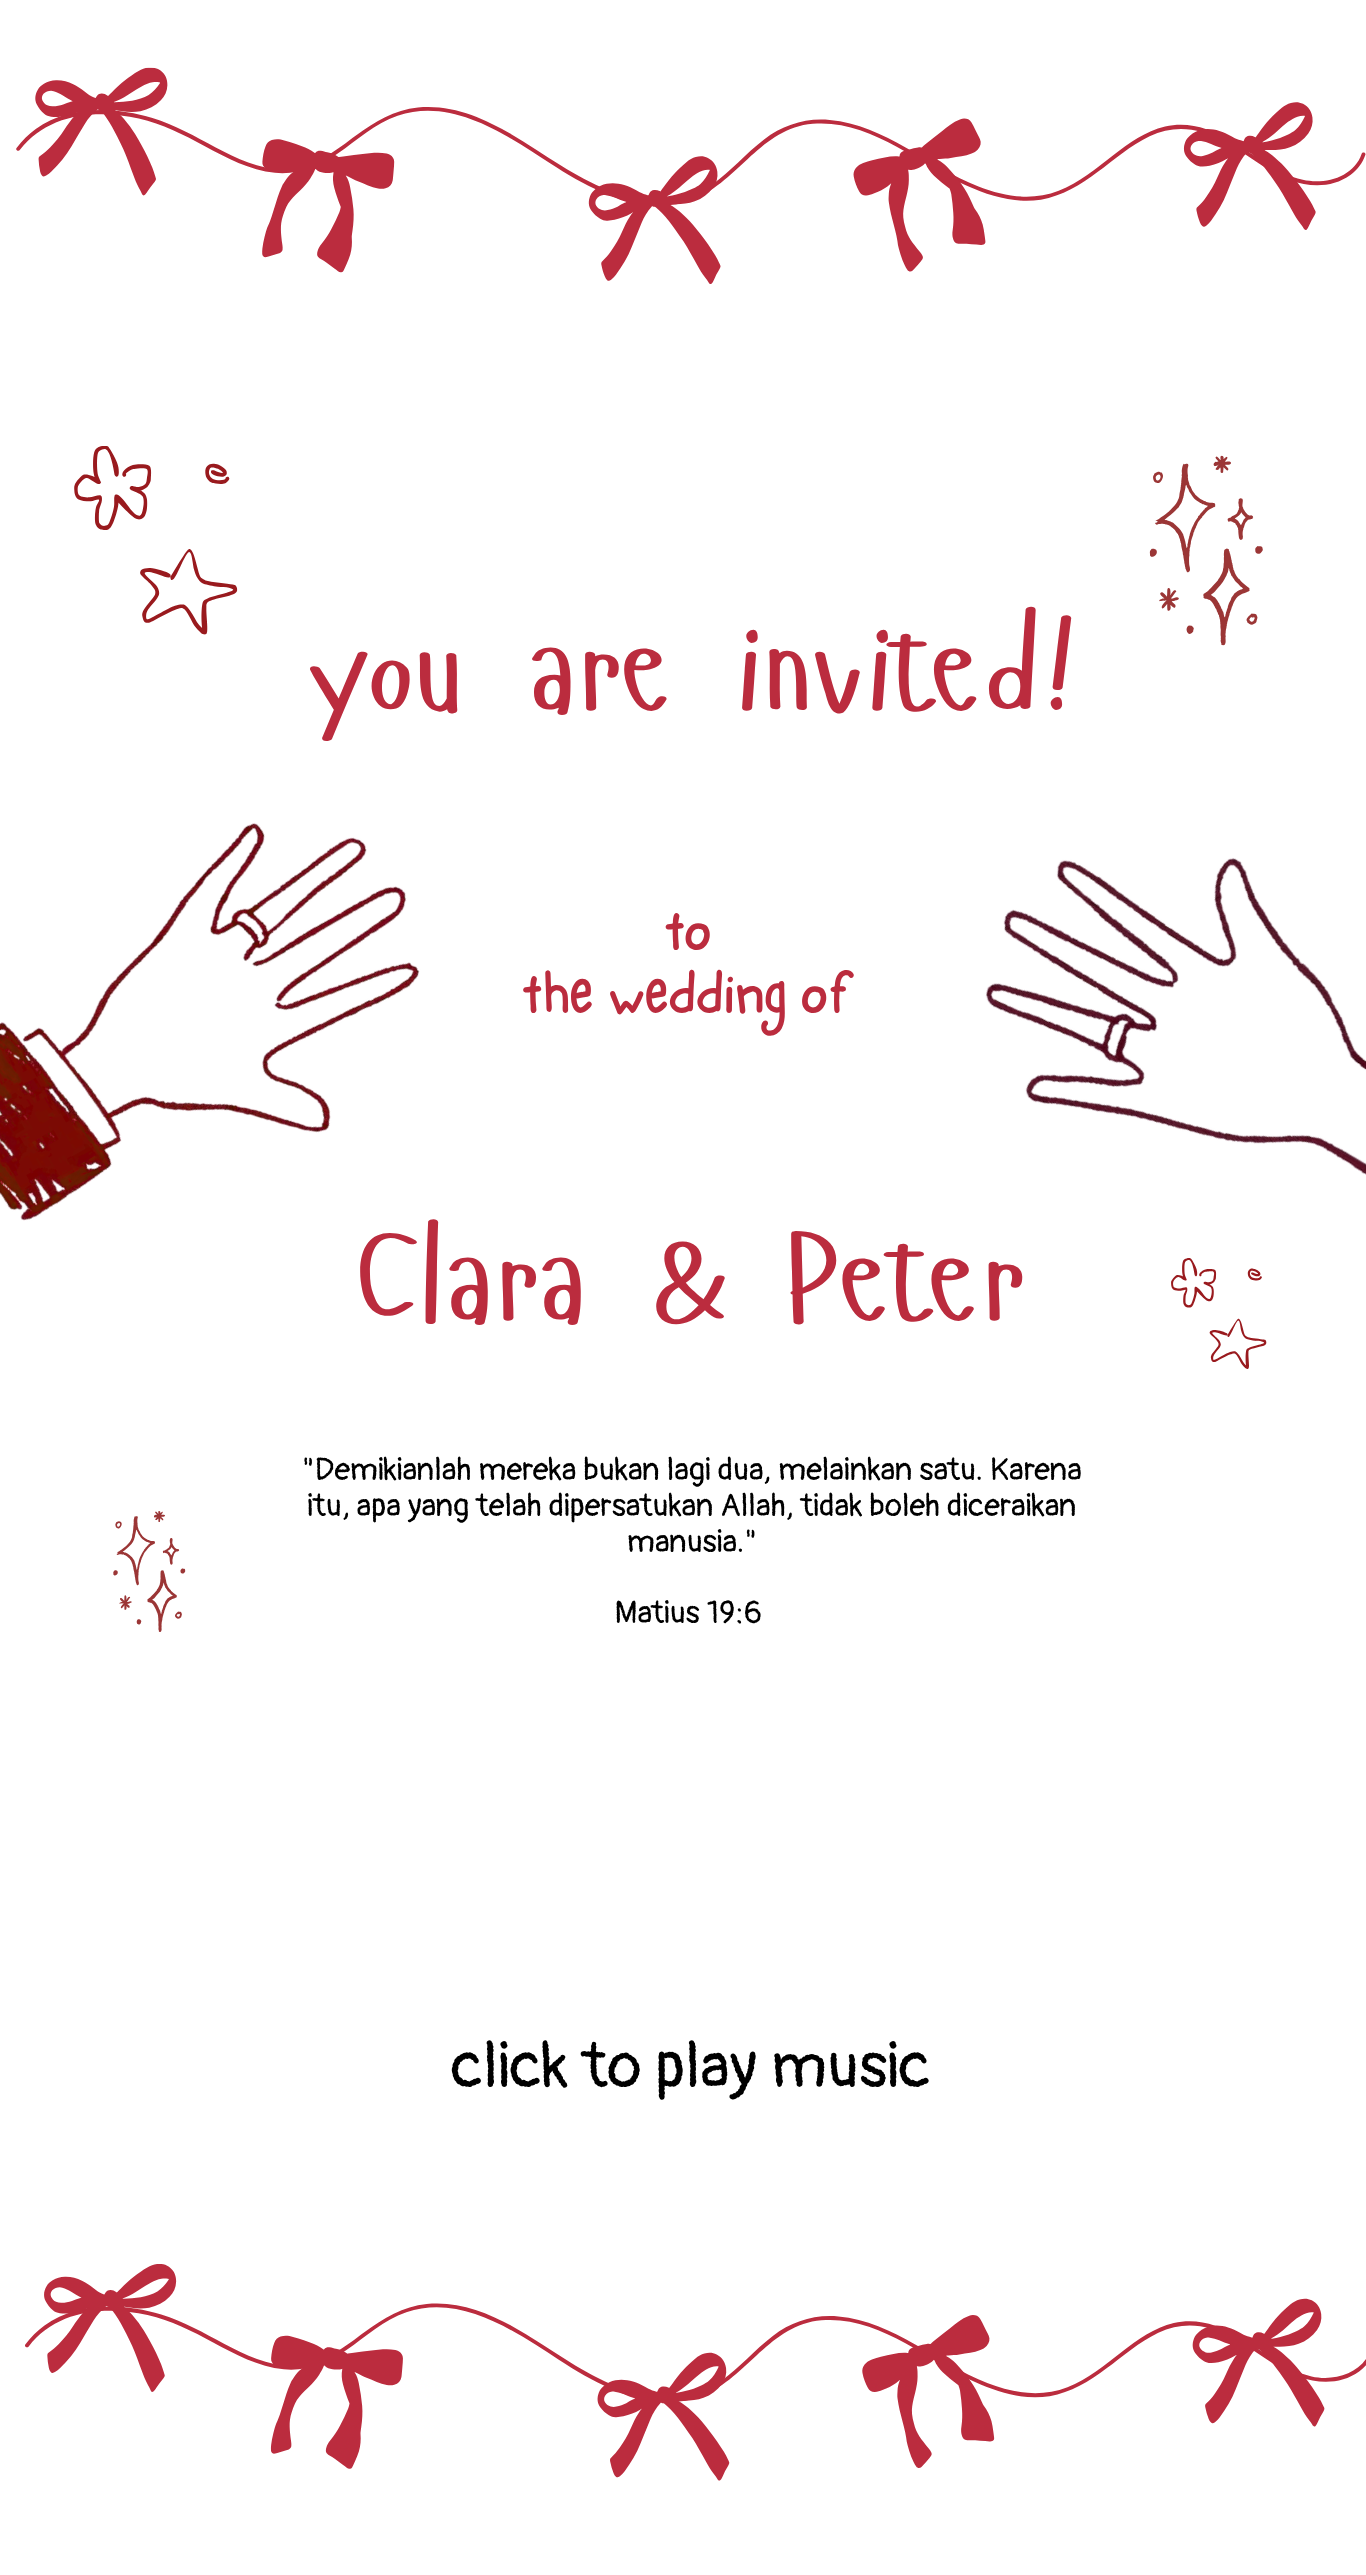
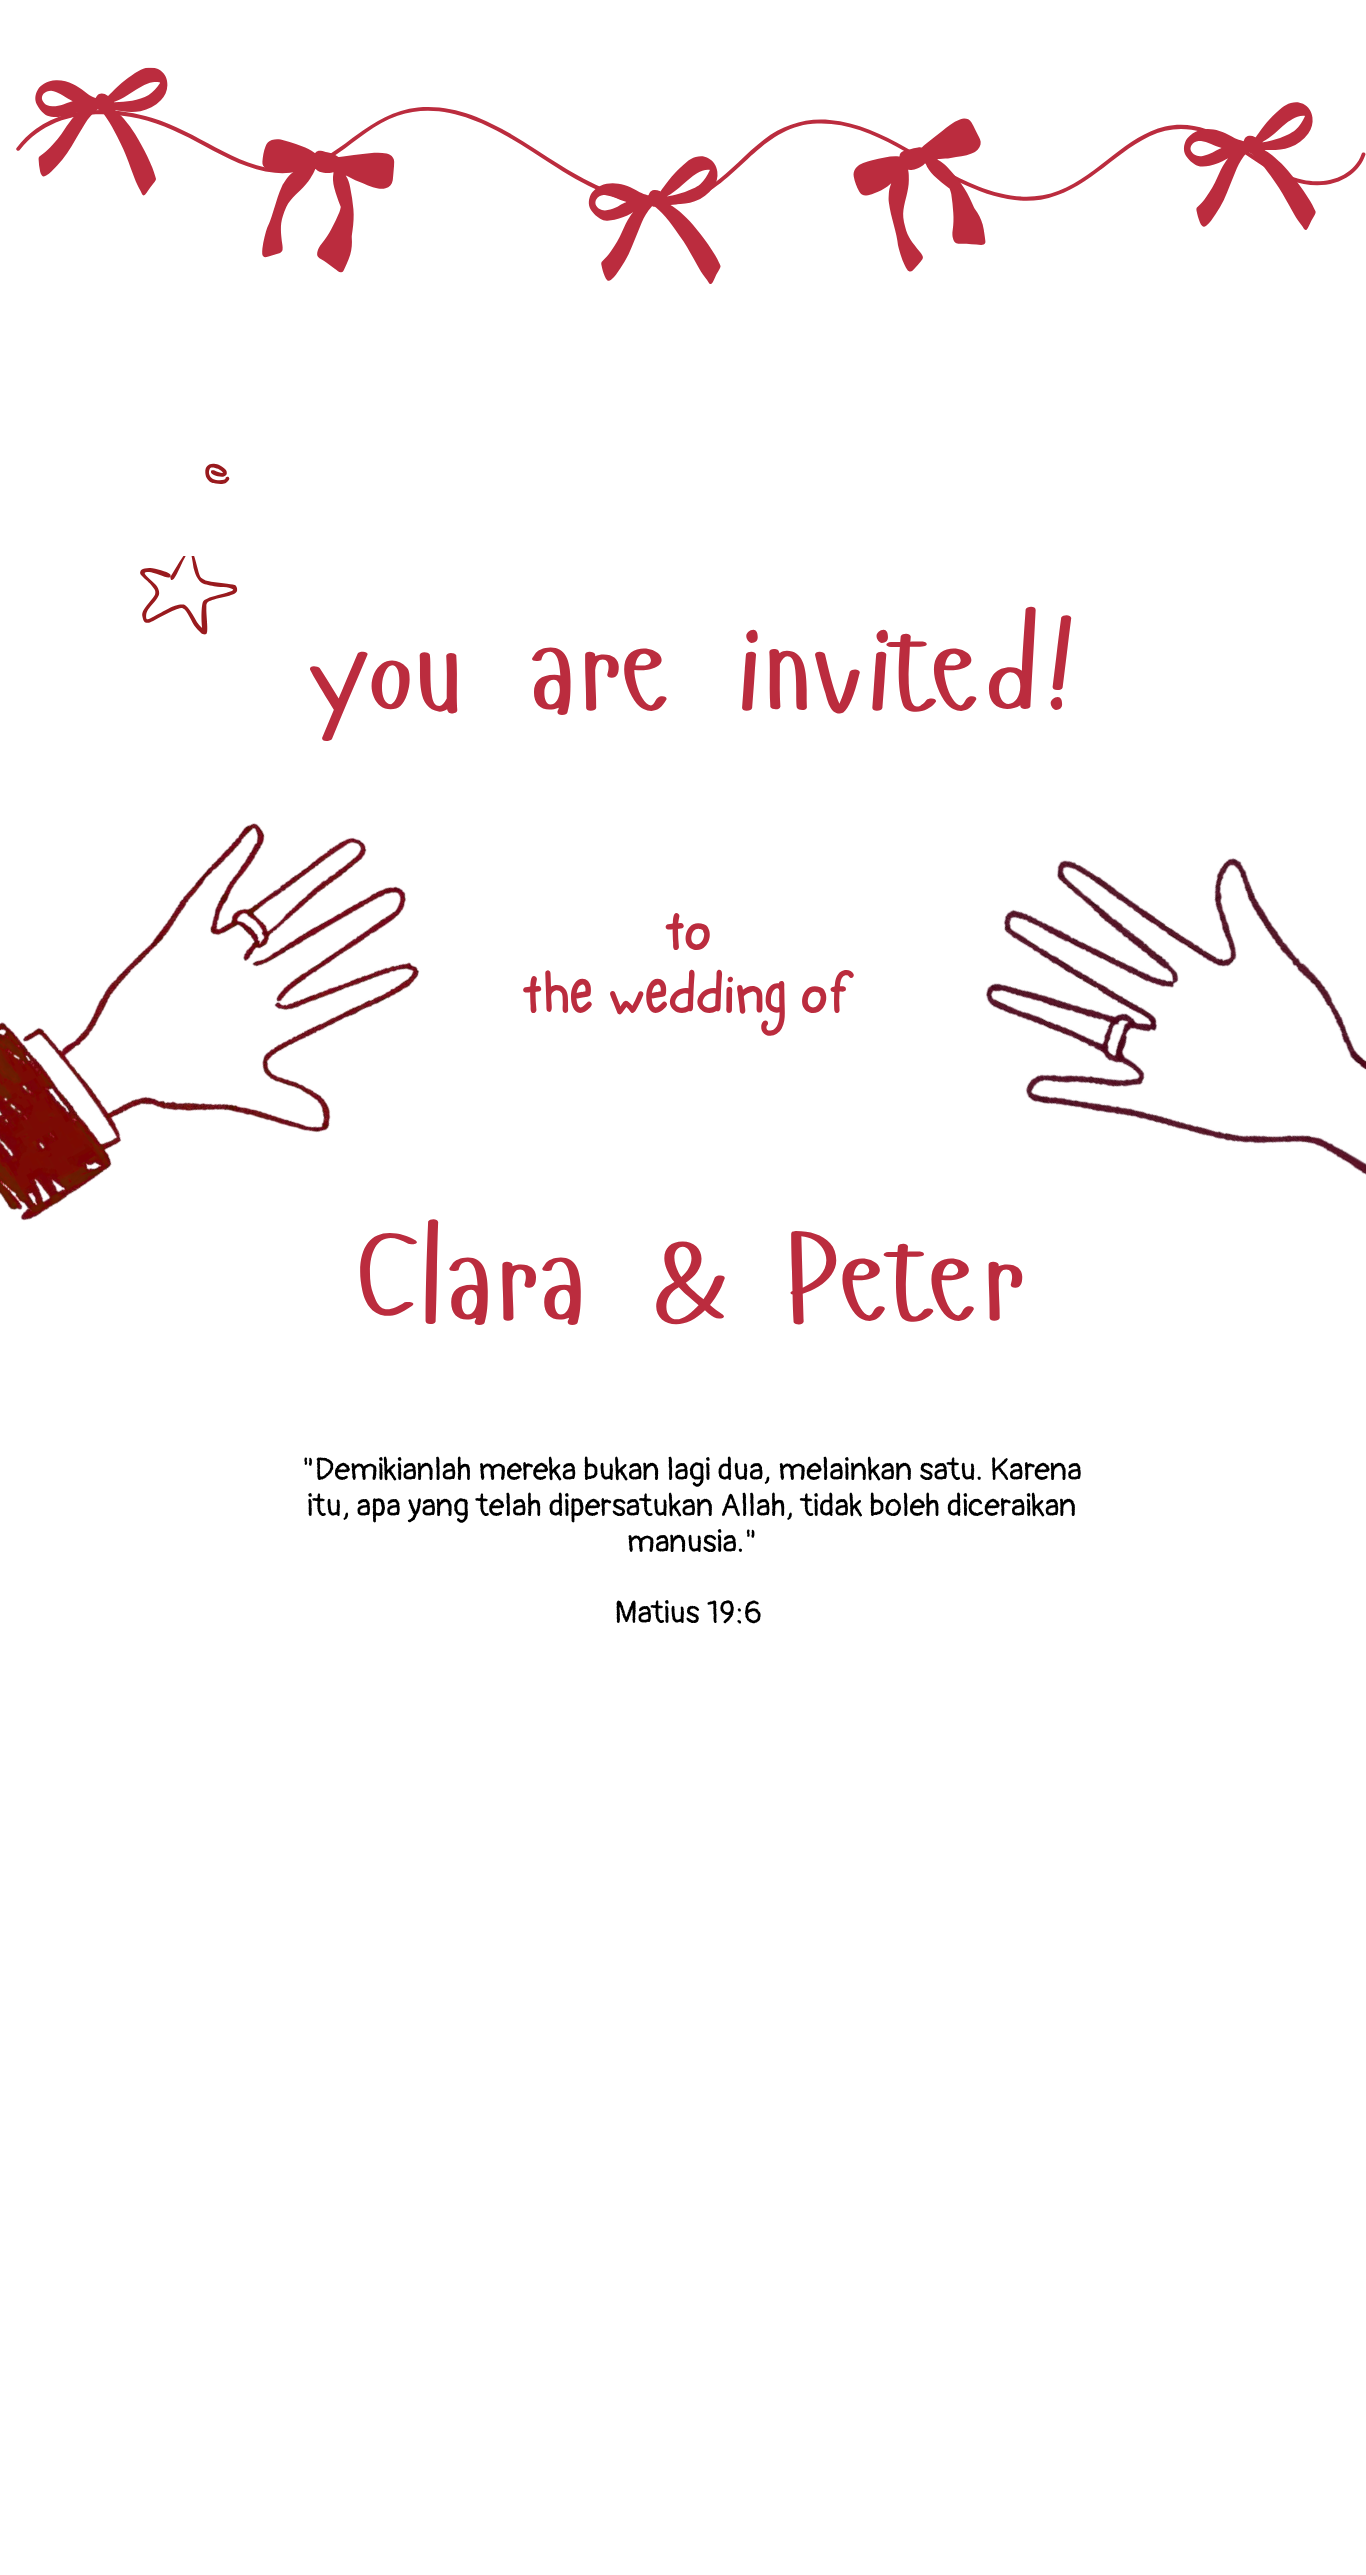
Update Save The Date edge-to-edge, Section 1 stars & caption, ribbon garland, enlarge Love Story and Gallery, connect RSVP to Supabase, and change button to Send Confirmation

diff --git a/index.html b/index.html
@@ -9,6 +9,7 @@
   <link rel="preconnect" href="https://fonts.googleapis.com">
   <link rel="preconnect" href="https://fonts.gstatic.com" crossorigin>
   <link href="https://fonts.googleapis.com/css2?family=Pangolin&display=swap" rel="stylesheet">
+  <script src="https://cdn.jsdelivr.net/npm/@supabase/supabase-js@2"></script>
 
   <style>
     @font-face {
@@ -418,6 +419,63 @@
       box-shadow: 0 4px 14px rgba(0,0,0,0.15);
       display: block;
     }
+    .sec-1-music-caption {
+      position: absolute;
+      top: 79.4%;
+      left: 0;
+      width: 100%;
+      text-align: center;
+      font-family: var(--font-body);
+      font-size: 13px;
+      color: #111111;
+      letter-spacing: 0.2px;
+      cursor: pointer;
+      z-index: 5;
+      user-select: none;
+      transition: color 0.2s;
+    }
+    .sec-1-music-caption:hover {
+      color: var(--red-primary);
+    }
+
+    .s1-star-cluster {
+      position: absolute;
+      transform-origin: center center;
+      pointer-events: none;
+      z-index: 3;
+    }
+    .s1-star-cluster img {
+      width: 100%;
+      height: auto;
+      display: block;
+    }
+    .s1-star-tl {
+      left: 5.42%;
+      top: 17.32%;
+      width: 8.64%;
+      animation: starWiggle1 2.8s ease-in-out infinite;
+    }
+    .s1-star-tr {
+      left: 84.19%;
+      top: 17.71%;
+      width: 8.27%;
+      animation: starWiggle2 3.2s ease-in-out infinite;
+      animation-delay: 0.4s;
+    }
+    .s1-star-mr {
+      left: 85.72%;
+      top: 48.85%;
+      width: 7.03%;
+      animation: starWiggle4 2.7s ease-in-out infinite;
+      animation-delay: 0.7s;
+    }
+    .s1-star-ml {
+      left: 8.27%;
+      top: 58.68%;
+      width: 5.27%;
+      animation: starWiggle3 3.0s ease-in-out infinite;
+      animation-delay: 1.1s;
+    }
 
     /* SECTION 2: BRIDE & GROOM */
     .sec-2 {
@@ -501,7 +559,7 @@
     .sec-3 {
       position: relative;
       width: 100%;
-      padding: 10px 15px 25px;
+      padding: 10px 0 25px;
       text-align: center;
       display: flex;
       flex-direction: column;
@@ -515,6 +573,7 @@
       width: 100%;
       max-width: 320px;
       margin-bottom: 12px;
+      padding: 0 15px;
     }
     .s3-stars-l {
       position: absolute;
@@ -541,8 +600,8 @@
     .s3-calendar-wrap {
       position: relative;
       width: 100%;
-      max-width: 375px;
-      margin: 8px auto 14px;
+      max-width: 100%;
+      margin: 4px 0 14px;
     }
     .s3-calendar-img {
       width: 100%;
@@ -800,7 +859,7 @@
     .s4-love-story-stage {
       position: relative;
       width: 100%;
-      max-width: 375px;
+      max-width: 410px;
       margin: 15px auto 25px;
     }
     .s4-love-story-img {
@@ -844,7 +903,7 @@
     .s4-gallery-wrap {
       position: relative;
       width: 100%;
-      max-width: 380px;
+      max-width: 410px;
       margin: 12px auto 0;
       border-radius: 18px;
       overflow: hidden;
@@ -1413,10 +1472,31 @@
       <!-- SECTION 1 (CANVA SECTION 1 LOOK) -->
       <section class="sec-1-stage">
         <img src="./assets/section_1_look.png" class="sec-1-bg" alt="You are invited to the wedding of Clara & Peter">
-        <div class="sec-1-music-box" onclick="toggleAudio()" title="Click to play / pause music">
+
+        <!-- 4 Wiggling Star Clusters in Section 1 -->
+        <div class="s1-star-cluster s1-star-tl">
+          <img src="./assets/s1_stars_tl.png" alt="" aria-hidden="true">
+        </div>
+        <div class="s1-star-cluster s1-star-tr">
+          <img src="./assets/s1_stars_tr.png" alt="" aria-hidden="true">
+        </div>
+        <div class="s1-star-cluster s1-star-mr">
+          <img src="./assets/s1_stars_mr.png" alt="" aria-hidden="true">
+        </div>
+        <div class="s1-star-cluster s1-star-ml">
+          <img src="./assets/s1_stars_ml.png" alt="" aria-hidden="true">
+        </div>
+
+        <div class="sec-1-music-box" onclick="toggleAudio()" title="Turn off / on music here">
           <img src="./assets/music_player.gif" class="sec-1-music-gif" alt="Music player">
         </div>
+        <p class="sec-1-music-caption" id="musicStatusCaption" onclick="toggleAudio()">turn off / on music here</p>
       </section>
+
+      <!-- Seamless Ribbon Divider between Section 1 and 2 (Edge to Edge) -->
+      <div class="garland-divider" style="margin-top: 0;">
+        <img src="./assets/ribbon_garland.png" alt="" aria-hidden="true">
+      </div>
 
       <!-- SECTION 2: BRIDE & GROOM (SS SECTION 2.png) -->
       <section class="sec-2">
@@ -1578,7 +1658,7 @@
           Anda juga bisa mengirimkan hadiah dalam bentuk fisik dengan mengonfirmasi ke kontak berikut:
         </p>
         <a href="https://wa.me/6281234567890?text=Halo%20Clara%20dan%20Peter,%20saya%20ingin%20mengonfirmasi%20kado%20fisik" target="_blank" rel="noopener noreferrer" class="pill-btn">
-          Nomor WA
+          Send Confirmation
         </a>
 
         <!-- Dresscode (Immediately following, continuous downwards) -->
@@ -1846,12 +1926,13 @@
         floatingBtn.classList.add('active-disc');
         musicIconPlaying.style.display = 'block';
         musicIconPaused.style.display = 'none';
-        if (musicStatusCaption) musicStatusCaption.textContent = 'now playing • tap to pause';
       } else {
         floatingBtn.classList.remove('active-disc');
         musicIconPlaying.style.display = 'none';
         musicIconPaused.style.display = 'block';
-        if (musicStatusCaption) musicStatusCaption.textContent = 'click to play music';
+      }
+      if (musicStatusCaption) {
+        musicStatusCaption.textContent = 'turn off / on music here';
       }
     }
 
@@ -1897,7 +1978,16 @@
     setInterval(updateCountdown, 1000);
     updateCountdown();
 
-    // 4. RSVP Form Handling
+    // 4. RSVP & Supabase Integration (Romeo & Juliet: 6b09c6bb-92fe-4dca-8242-5a162a3b6ae6)
+    const SUPABASE_URL = 'https://uazfzmuvunmhnjdfxbbi.supabase.co';
+    const SUPABASE_KEY = 'sb_publishable_Kbhrasv4jWCwnd52QRvprQ_1bJ-EDpe';
+    const CUSTOMER_ID = '6b09c6bb-92fe-4dca-8242-5a162a3b6ae6';
+    const supabaseClient = (window.supabase && window.supabase.createClient)
+      ? window.supabase.createClient(SUPABASE_URL, SUPABASE_KEY, {
+          auth: { persistSession: false, autoRefreshToken: false }
+        })
+      : null;
+
     let selectedAttendance = 'attending';
     let eventsState = {
       attendAll: true,
@@ -1954,6 +2044,22 @@
       document.getElementById('wishCharCount').textContent = `${textarea.value.length}/500`;
     }
 
+    function formatTimeAgo(dateString) {
+      if (!dateString) return 'Baru saja';
+      const now = new Date();
+      const date = new Date(dateString);
+      if (isNaN(date.getTime())) return 'Baru saja';
+      const diffSec = Math.floor((now - date) / 1000);
+      if (diffSec < 60) return 'Baru saja';
+      const diffMin = Math.floor(diffSec / 60);
+      if (diffMin < 60) return `${diffMin} menit yang lalu`;
+      const diffHour = Math.floor(diffMin / 60);
+      if (diffHour < 24) return `${diffHour} jam yang lalu`;
+      const diffDay = Math.floor(diffHour / 24);
+      if (diffDay < 7) return `${diffDay} hari yang lalu`;
+      return date.toLocaleDateString('id-ID', { day: 'numeric', month: 'short', year: 'numeric' });
+    }
+
     const DEFAULT_WISHES = [
       {
         name: 'Dimas & Nadia',
@@ -1972,7 +2078,24 @@
       }
     ];
 
-    function loadWishes() {
+    async function loadWishes() {
+      if (supabaseClient) {
+        try {
+          const { data, error } = await supabaseClient.rpc('public_wishes', { p_customer: CUSTOMER_ID });
+          if (!error && Array.isArray(data) && data.length > 0) {
+            const wishes = data.map(w => ({
+              name: w.name || 'Tamu Undangan',
+              time: formatTimeAgo(w.created_at),
+              message: w.message || ''
+            }));
+            renderWishes(wishes);
+            return;
+          }
+        } catch (err) {
+          console.warn('Could not load Supabase wishes, falling back to local storage:', err);
+        }
+      }
+
       const stored = localStorage.getItem('clara_peter_wishes');
       let wishes = DEFAULT_WISHES;
       if (stored) {
@@ -1983,6 +2106,7 @@
 
     function renderWishes(wishes) {
       const list = document.getElementById('wishesList');
+      if (!list) return;
       list.innerHTML = '';
       wishes.forEach(w => {
         const item = document.createElement('div');
@@ -1998,10 +2122,11 @@
       });
     }
 
-    function handleRsvpSubmit(e) {
+    async function handleRsvpSubmit(e) {
       e.preventDefault();
       const nameInput = document.getElementById('guestName');
       const wishInput = document.getElementById('guestWish');
+      const guestCountSelect = document.getElementById('guestCount');
       const btn = document.getElementById('btnSubmitRsvp');
 
       const name = nameInput.value.trim();
@@ -2016,46 +2141,88 @@
       btn.disabled = true;
       btn.innerHTML = '<span>Mengirimkan...</span>';
 
+      let eventNote = '';
+      let attendanceVal = 'hadir';
+      let totalGuests = 1;
+
+      if (selectedAttendance === 'attending') {
+        attendanceVal = 'hadir';
+        totalGuests = parseInt(guestCountSelect ? guestCountSelect.value : '1', 10) || 1;
+        const events = [];
+        if (eventsState.pemberkatan) events.push('Pemberkatan');
+        if (eventsState.resepsi) events.push('Resepsi');
+        eventNote = eventsState.attendAll ? '[Hadir: Semua Acara]' : `[Hadir: ${events.join(', ')}]`;
+      } else if (selectedAttendance === 'not_attending') {
+        attendanceVal = 'tidak_hadir';
+        totalGuests = 0;
+        eventNote = '[Tidak Hadir]';
+      } else {
+        attendanceVal = 'belum_pasti';
+        totalGuests = 1;
+        eventNote = '[Belum Pasti]';
+      }
+
+      const fullMessage = eventNote ? `${eventNote} ${wish}` : wish;
+
+      // 1. Send to Supabase rsvps table (without .select() to comply with RLS)
+      if (supabaseClient) {
+        try {
+          const { error } = await supabaseClient.from('rsvps').insert({
+            customer_id: CUSTOMER_ID,
+            name: name,
+            attendance: attendanceVal,
+            guests: totalGuests,
+            message: fullMessage
+          });
+          if (error) {
+            console.error('Supabase RSVP insert error:', error);
+          }
+        } catch (err) {
+          console.warn('Supabase RSVP request exception:', err);
+        }
+      }
+
+      // 2. Add newly submitted wish to UI immediately
+      const newWish = {
+        name: name,
+        time: 'Baru saja',
+        message: fullMessage
+      };
+
+      const list = document.getElementById('wishesList');
+      if (list) {
+        const item = document.createElement('div');
+        item.className = 'wish-item';
+        item.innerHTML = `
+          <div class="wish-header">
+            <span class="wish-name">${escapeHtml(newWish.name)}</span>
+            <span class="wish-time">${escapeHtml(newWish.time)}</span>
+          </div>
+          <p class="wish-body">${escapeHtml(newWish.message)}</p>
+        `;
+        list.prepend(item);
+      }
+
+      // 3. Save to localStorage as backup
+      const stored = localStorage.getItem('clara_peter_wishes');
+      let wishes = DEFAULT_WISHES;
+      if (stored) {
+        try { wishes = JSON.parse(stored); } catch (e) {}
+      }
+      wishes.unshift(newWish);
+      localStorage.setItem('clara_peter_wishes', JSON.stringify(wishes));
+
+      // Reset form
+      nameInput.value = '';
+      wishInput.value = '';
+      document.getElementById('wishCharCount').textContent = '0/500';
+      btn.disabled = false;
+      btn.innerHTML = '<span>✓ Terkirim</span>';
       setTimeout(() => {
-        let eventNote = '';
-        if (selectedAttendance === 'attending') {
-          const events = [];
-          if (eventsState.pemberkatan) events.push('Pemberkatan');
-          if (eventsState.resepsi) events.push('Resepsi');
-          eventNote = eventsState.attendAll ? '[Hadir: Semua Acara]' : `[Hadir: ${events.join(', ')}]`;
-        } else if (selectedAttendance === 'not_attending') {
-          eventNote = '[Tidak Hadir]';
-        } else {
-          eventNote = '[Belum Pasti]';
-        }
+        btn.innerHTML = '<span>Kirim RSVP</span>';
+      }, 3000);
 
-        const fullMessage = eventNote ? `${eventNote} ${wish}` : wish;
-
-        const newWish = {
-          name: name,
-          time: 'Baru saja',
-          message: fullMessage
-        };
-
-        const stored = localStorage.getItem('clara_peter_wishes');
-        let wishes = DEFAULT_WISHES;
-        if (stored) {
-          try { wishes = JSON.parse(stored); } catch (e) {}
-        }
-        wishes.unshift(newWish);
-        localStorage.setItem('clara_peter_wishes', JSON.stringify(wishes));
-
-        renderWishes(wishes);
-        wishInput.value = '';
-        document.getElementById('wishCharCount').textContent = '0/500';
-        btn.disabled = false;
-        btn.innerHTML = '<span>✓ Terkirim</span>';
-        setTimeout(() => {
-          btn.innerHTML = '<span>Kirim RSVP</span>';
-        }, 3000);
-
-        showToast('Terima kasih! Konfirmasi kehadiran Anda telah tersimpan.');
-      }, 500);
+      showToast('Terima kasih! Konfirmasi kehadiran Anda telah tersimpan.');
     }
 
     // 5. Copy Clipboard
